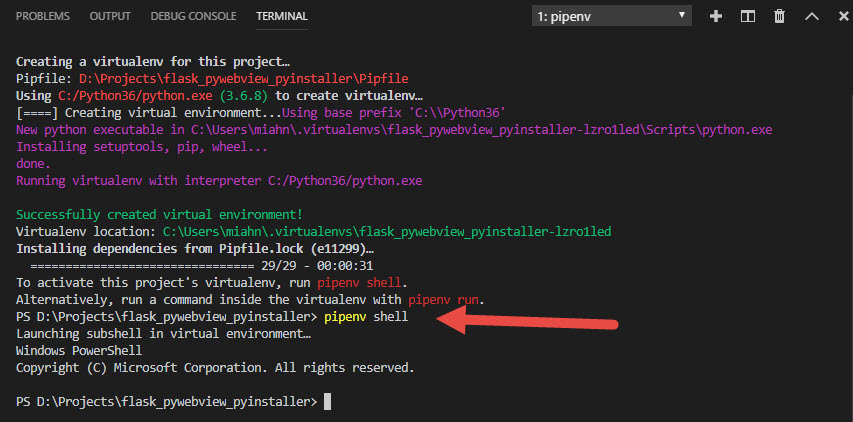
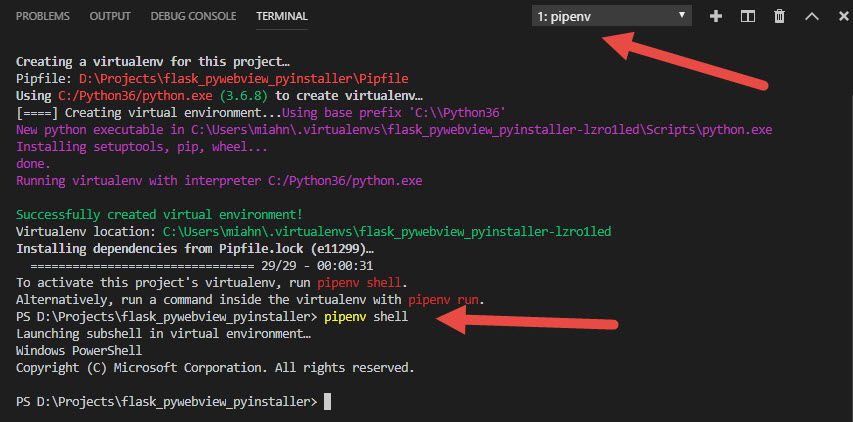
Added to readme and added images

Changed region(s): [[0.7011, 0.0616, 0.9144, 0.2156]]

diff --git a/test.py b/test.py
@@ -16,5 +16,5 @@ if __name__ == '__main__':
     thread = threading.Thread(target=start_server)
     thread.daemon = True
     thread.start()
-    webview.create_window("This is just a test", "http://127.0.0.1:50000/")
+    webview.create_window("This is just a test", "http://127.0.0.1:5000/")
     sys.exit()

diff --git a/README.MD b/README.MD
@@ -1,2 +1,35 @@
 # flask_pywebview_pyinstaller
 Just seeing if I can compile a simple flask app run via pywebview into a single file exe using pyinstaller
+
+## Clone the GIT repository
+
+```powershell
+git clone https://github.com/miahnelson/flask_pywebview_pyinstaller
+```
+![alt text](./img/git_clone.jpg?style=centerme)
+
+## Setup and activate the virtual enviroment
+This will setup the virtual environment and install all the dependencies. 
+```powershell
+pipenv install
+pipenv shell
+```
+![alt text](./img/pipenv_install.jpg?style=centerme)
+
+
+## Run pyinstaller with the included spec file to complie the app
+```powershell
+pyinstaller test.spec
+```
+![alt text](./img/pyinstaller_test.jpg?style=centerme)
+
+## test.exe will be built in the ./dist folder
+
+![alt text](./img/Built.jpg?style=centerme)
+
+## Run the app to see the output
+
+![alt text](./img/app.jpg?style=centerme)
+
+## Now its time to write a flask app that can then be compiled into a desktop app using pywebview
+
